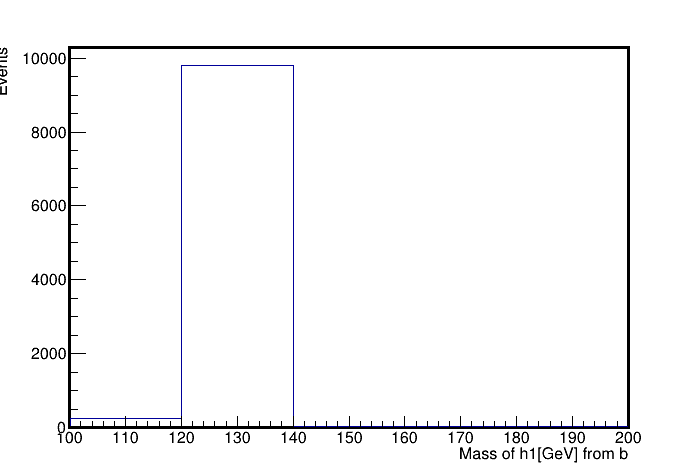
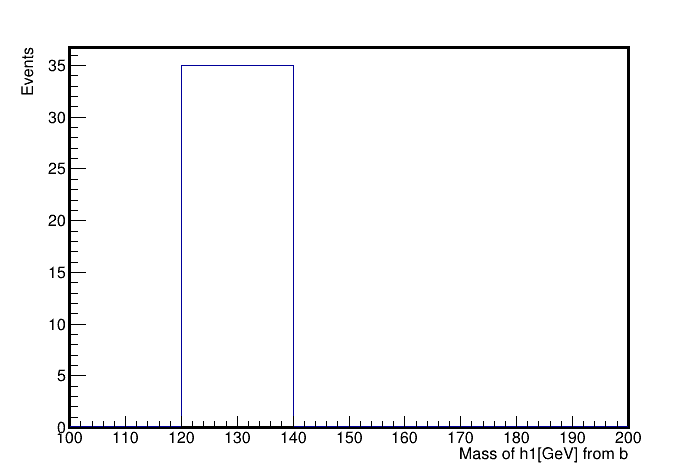
h1_pho mass

diff --git a/pp_h2_h1h1_bbaa_run_01/LHE_Analyzer.py b/pp_h2_h1h1_bbaa_run_01/LHE_Analyzer.py
@@ -220,9 +220,9 @@ for i in phi_bbar:
 
 
 
-h_mass_pho=TH1F("Mass of h","",5,100,200)
+h_mass_pho=TH1F("Mass of h","",100,100,150)
 for i in m_h_pho:
-    h_mass.Fill(i)
+    h_mass_pho.Fill(i)
 
 h_phi_pho=TH1F("Phi of h","",10,-5,5)
 for i in phi_h_pho:
@@ -346,7 +346,6 @@ h_phibbar.SetYTitle("Events")
 h_phibbar.Draw()
 cmsname.Draw()
 c.SaveAs("Phibbar of h1.png")
-
 
 
 
